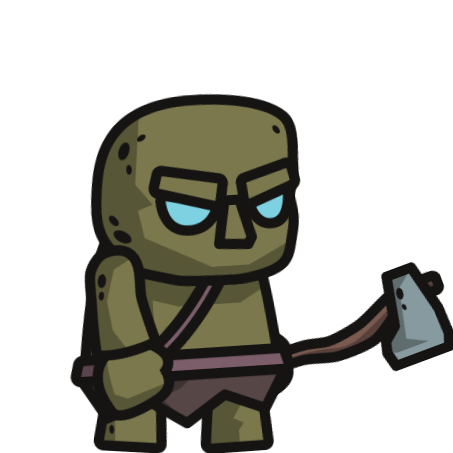
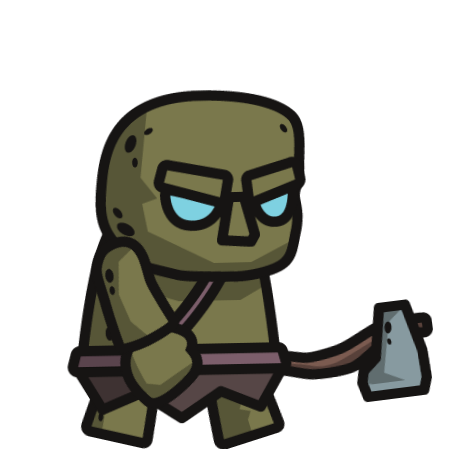
fifth version

Changed region(s): [[0.1247, 0.1871, 1.0, 1.0]]

diff --git a/our_game.py b/our_game.py
@@ -44,13 +44,19 @@ def load_image(file_path, width=GRID_SIZE, height=GRID_SIZE):
 
     return img
 
-#def play_sound(sound, loops=0, maxtime=0, fade_ms=0):
-    if sound_on:
-        sound.play(loops, maxtime, fade_ms)
+def load_image_bigger(file_path, width=GRID_SIZE * 2, height=GRID_SIZE * 2):
+    img = pygame.image.load(file_path)
+    img = pygame.transform.scale(img, (width, height))
 
-#def play_music():
-    if sound_on:
-        pygame.mixer.music.play(-1)
+    return img
+
+#def play_sound(sound, loops=0, maxtime=0, fade_ms=0):
+#     if sound_on:
+#         sound.play(loops, maxtime, fade_ms)
+
+# #def play_music():
+#     if sound_on:
+#         pygame.mixer.music.play(-1)
 
 # Images
 
@@ -96,18 +102,52 @@ block_images = {"TL": load_image("assets/tiles/top_left.png"),
                 "CN3": load_image("assets/tiles/center3.png"),
                 "LF3": load_image("assets/tiles/lone_float3.png")}
 
-coin_img = load_image("assets/items/coin_v2.png")
-heart_img = load_image("assets/items/heart_v2.png")
-oneup_img = load_image("assets/items/first_aid_v2.png")
+coin_img = load_image("assets/items/new/diamond_icon.png")
+heart_img = load_image("assets/items/new/heart_icon.png")
+oneup_img = load_image("assets/items/new/firstaid_icon.png")
+deathblock_img = load_image("assets/tiles/deathblock.png")
 flag_img = load_image("assets/items/flag.png")
 flagpole_img = load_image("assets/items/flagpole.png")
 
-monster_img1 = load_image("assets/enemies/golem-1.png")
-monster_img2 = load_image("assets/enemies/golem-2.png")
-monster_images = [monster_img1, monster_img2]
+monster_images = [load_image_bigger("assets/enemies/golem_01/golem_01_01.png"),
+                  load_image_bigger("assets/enemies/golem_01/golem_01_02.png"),
+                  load_image_bigger("assets/enemies/golem_01/golem_01_03.png"),
+                  load_image_bigger("assets/enemies/golem_01/golem_01_04.png"),
+                  load_image_bigger("assets/enemies/golem_01/golem_01_05.png"),
+                  load_image_bigger("assets/enemies/golem_01/golem_01_06.png"),
+                  load_image_bigger("assets/enemies/golem_01/golem_01_07.png"),
+                  load_image_bigger("assets/enemies/golem_01/golem_01_08.png"),
+                  load_image_bigger("assets/enemies/golem_01/golem_01_09.png"),
+                  load_image_bigger("assets/enemies/golem_01/golem_01_10.png"),
+                  load_image_bigger("assets/enemies/golem_01/golem_01_11.png"),
+                  load_image_bigger("assets/enemies/golem_01/golem_01_12.png"),
+                  load_image_bigger("assets/enemies/golem_01/golem_01_13.png"),
+                  load_image_bigger("assets/enemies/golem_01/golem_01_14.png"),
+                  load_image_bigger("assets/enemies/golem_01/golem_01_15.png"),
+                  load_image_bigger("assets/enemies/golem_01/golem_01_16.png"),
+                  load_image_bigger("assets/enemies/golem_01/golem_01_17.png"),
+                  load_image_bigger("assets/enemies/golem_01/golem_01_18.png"),
+                  load_image_bigger("assets/enemies/golem_01/golem_01_19.png"),
+                  load_image_bigger("assets/enemies/golem_01/golem_01_20.png"),
+                  load_image_bigger("assets/enemies/golem_01/golem_01_21.png"),
+                  load_image_bigger("assets/enemies/golem_01/golem_01_22.png"),
+                  load_image_bigger("assets/enemies/golem_01/golem_01_23.png"),
+                  load_image_bigger("assets/enemies/golem_01/golem_01_24.png")]
 
-bear_img = load_image("assets/enemies/golemM-1.png")
-bear_images = [bear_img]
+# monster_images = ["assets/enemies/golem_01/golem_01_" + str(x) + ".png" for x in range(10,24,1)]
+
+bear_images = [load_image("assets/enemies/wraith_03/wraith_03_01.png"),
+               load_image("assets/enemies/wraith_03/wraith_03_02.png"),
+               load_image("assets/enemies/wraith_03/wraith_03_03.png"),
+               load_image("assets/enemies/wraith_03/wraith_03_04.png"),
+               load_image("assets/enemies/wraith_03/wraith_03_05.png"),
+               load_image("assets/enemies/wraith_03/wraith_03_06.png"),
+               load_image("assets/enemies/wraith_03/wraith_03_07.png"),
+               load_image("assets/enemies/wraith_03/wraith_03_08.png"),
+               load_image("assets/enemies/wraith_03/wraith_03_09.png"),
+               load_image("assets/enemies/wraith_03/wraith_03_10.png"),
+               load_image("assets/enemies/wraith_03/wraith_03_11.png"),
+               load_image("assets/enemies/wraith_03/wraith_03_12.png")]
 
 # Sounds
 #JUMP_SOUND = pygame.mixer.Sound("assets/sounds/jump.wav")
@@ -139,6 +179,14 @@ class Block(Entity):
 
     def __init__(self, x, y, image):
         super().__init__(x, y, image)
+
+class DeathBlock(Entity):
+
+    def __init__(self, x, y, image):
+        super().__init__(x, y, image)
+    
+    def apply(self, character):
+        character.hearts -= 1
 
 class Character(Entity):
 
@@ -224,6 +272,7 @@ class Character(Entity):
                 self.vy = 0
 
     def process_coins(self, coins):
+        
         hit_list = pygame.sprite.spritecollide(self, coins, True)
 
         for coin in hit_list:
@@ -237,6 +286,26 @@ class Character(Entity):
             #play_sound(HURT_SOUND)
             self.hearts -= 1
             self.invincibility = int(0.75 * FPS)
+    
+    def process_deathblocks(self, deathblocks):
+        epsilon_h = self.rect.h / 20
+        epsilon_w = self.rect.w / 20
+        hit_list = pygame.sprite.spritecollide(self, deathblocks, False)
+
+        for block in hit_list:
+            # if self.vx > 0:
+            #     self.rect.right = block.rect.left - epsilon_w
+            # elif self.vx < 0:
+            #     self.rect.left = block.rect.right + epsilon_w
+            # if self.vy > 0:
+            #     self.rect.bottom = block.rect.top - epsilon_h
+            # elif self.vy < 0:
+            #     self.rect.top = block.rect.bottom + epsilon_h
+            if self.invincibility == 0:
+                block.apply(self)
+                self.invincibility = int(0.75 * FPS)
+                self.vx = 0
+                self.vy = 0
 
     def process_powerups(self, powerups):
         hit_list = pygame.sprite.spritecollide(self, powerups, True)
@@ -260,7 +329,7 @@ class Character(Entity):
                 else:
                     self.running_images = self.images_run_left
 
-                self.steps = (self.steps + 1) % self.speed # Works well with 2 images, try lower number if more frames are in animation
+                self.steps = (self.steps + 1) % self.speed
 
                 if self.steps == 0:
                     self.image_index = (self.image_index + 1) % len(self.running_images)
@@ -301,6 +370,7 @@ class Character(Entity):
         if self.hearts > 0:
             self.process_coins(level.coins)
             self.process_powerups(level.powerups)
+            self.process_deathblocks(level.deathblocks)
             self.check_flag(level)
 
             if self.invincibility > 0:
@@ -318,8 +388,8 @@ class Enemy(Entity):
     def __init__(self, x, y, images):
         super().__init__(x, y, images[0])
 
-        self.images_left = images
-        self.images_right = [pygame.transform.flip(img, 1, 0) for img in images]
+        self.images_right = images
+        self.images_left = [pygame.transform.flip(img, 1, 0) for img in images]
         self.current_images = self.images_left
         self.image_index = 0
         self.steps = 0
@@ -354,7 +424,7 @@ class Enemy(Entity):
                 self.rect.left = block.rect.right
                 self.reverse()
 
-        self.rect.y += self.vy # the +1 is hacky. not sure why it helps.
+        self.rect.y += self.vy 
         hit_list = pygame.sprite.spritecollide(self, blocks, False)
 
         for block in hit_list:
@@ -370,7 +440,7 @@ class Enemy(Entity):
             self.image = self.current_images[self.image_index]
             self.image_index = (self.image_index + 1) % len(self.current_images)
 
-        self.steps = (self.steps + 1) % 20 # Nothing significant about 20. It just seems to work okay.
+        self.steps = (self.steps + 1) % 2
 
     def is_near(self, hero):
         return abs(self.rect.x - hero.rect.x) < 2 * WIDTH
@@ -478,12 +548,14 @@ class Level():
         self.starting_enemies = []
         self.starting_coins = []
         self.starting_powerups = []
+        self.starting_deathblocks = []
         self.starting_flag = []
 
         self.blocks = pygame.sprite.Group()
         self.enemies = pygame.sprite.Group()
         self.coins = pygame.sprite.Group()
         self.powerups = pygame.sprite.Group()
+        self.deathblocks = pygame.sprite.Group()
         self.flag = pygame.sprite.Group()
 
         self.active_sprites = pygame.sprite.Group()
@@ -520,6 +592,10 @@ class Level():
         for item in map_data['oneups']:
             x, y = item[0] * GRID_SIZE, item[1] * GRID_SIZE
             self.starting_powerups.append(OneUp(x, y, oneup_img))
+
+        for item in map_data['deathblocks']:
+            x, y = item[0] * GRID_SIZE, item[1] * GRID_SIZE
+            self.starting_deathblocks.append(DeathBlock(x, y, deathblock_img))
 
         for item in map_data['hearts']:
             x, y = item[0] * GRID_SIZE, item[1] * GRID_SIZE
@@ -592,12 +668,12 @@ class Level():
         self.enemies.add(self.starting_enemies)
         self.coins.add(self.starting_coins)
         self.powerups.add(self.starting_powerups)
+        self.deathblocks.add(self.starting_deathblocks)
         self.flag.add(self.starting_flag)
 
-        self.active_sprites.add(self.coins, self.enemies, self.powerups)
+        self.active_sprites.add(self.coins, self.enemies, self.powerups, self.deathblocks)
         self.inactive_sprites.add(self.blocks, self.flag)
 
-        # with this speed up blitting on slower computers?
         for s in self.active_sprites:
             s.image.convert()
 
@@ -606,7 +682,6 @@ class Level():
 
         self.inactive_sprites.draw(self.inactive_layer)
 
-        # is converting layers helpful at all?
         self.background_layer.convert()
         # self.scenery_layer.convert()
         self.inactive_layer.convert()
@@ -616,8 +691,9 @@ class Level():
         self.enemies.add(self.starting_enemies)
         self.coins.add(self.starting_coins)
         self.powerups.add(self.starting_powerups)
+        self.deathblocks.add(self.starting_deathblocks)
 
-        self.active_sprites.add(self.coins, self.enemies, self.powerups)
+        self.active_sprites.add(self.coins, self.enemies, self.powerups, self.deathblocks)
 
         for e in self.enemies:
             e.reset()
